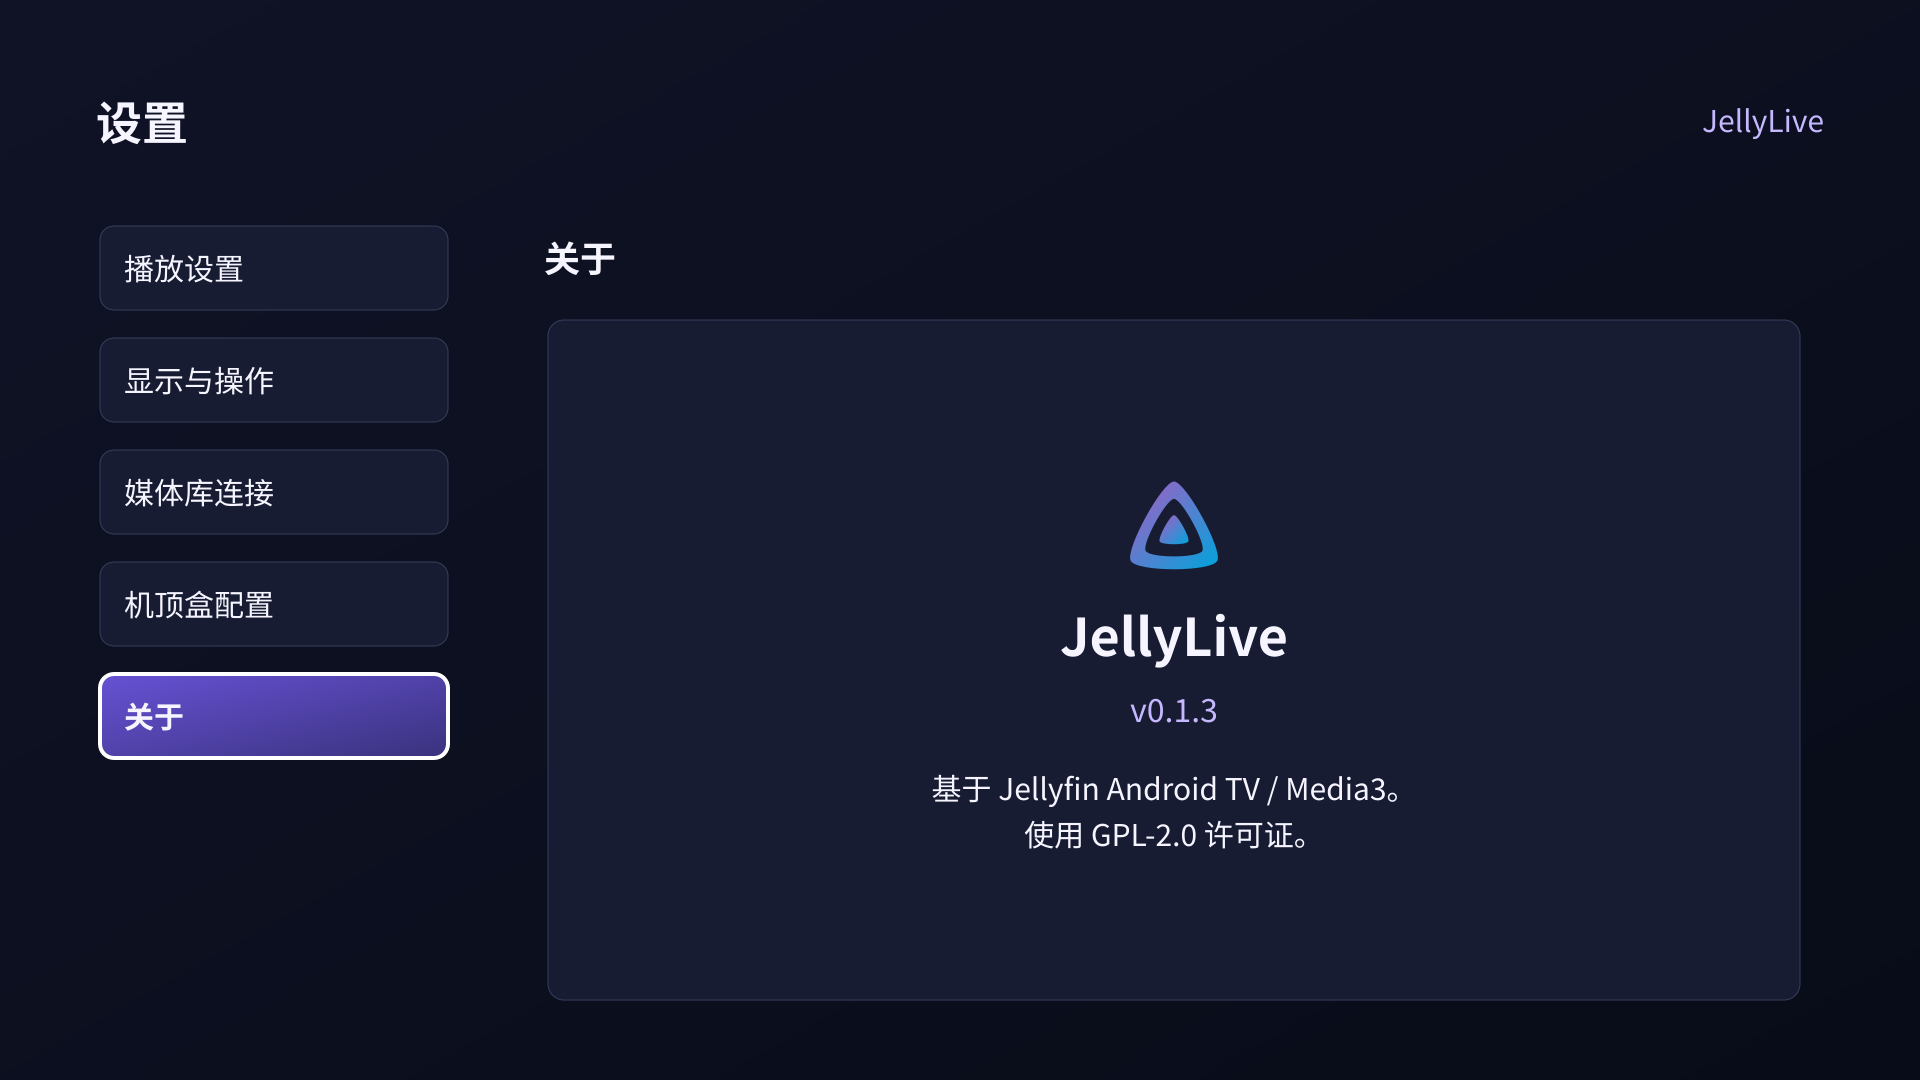
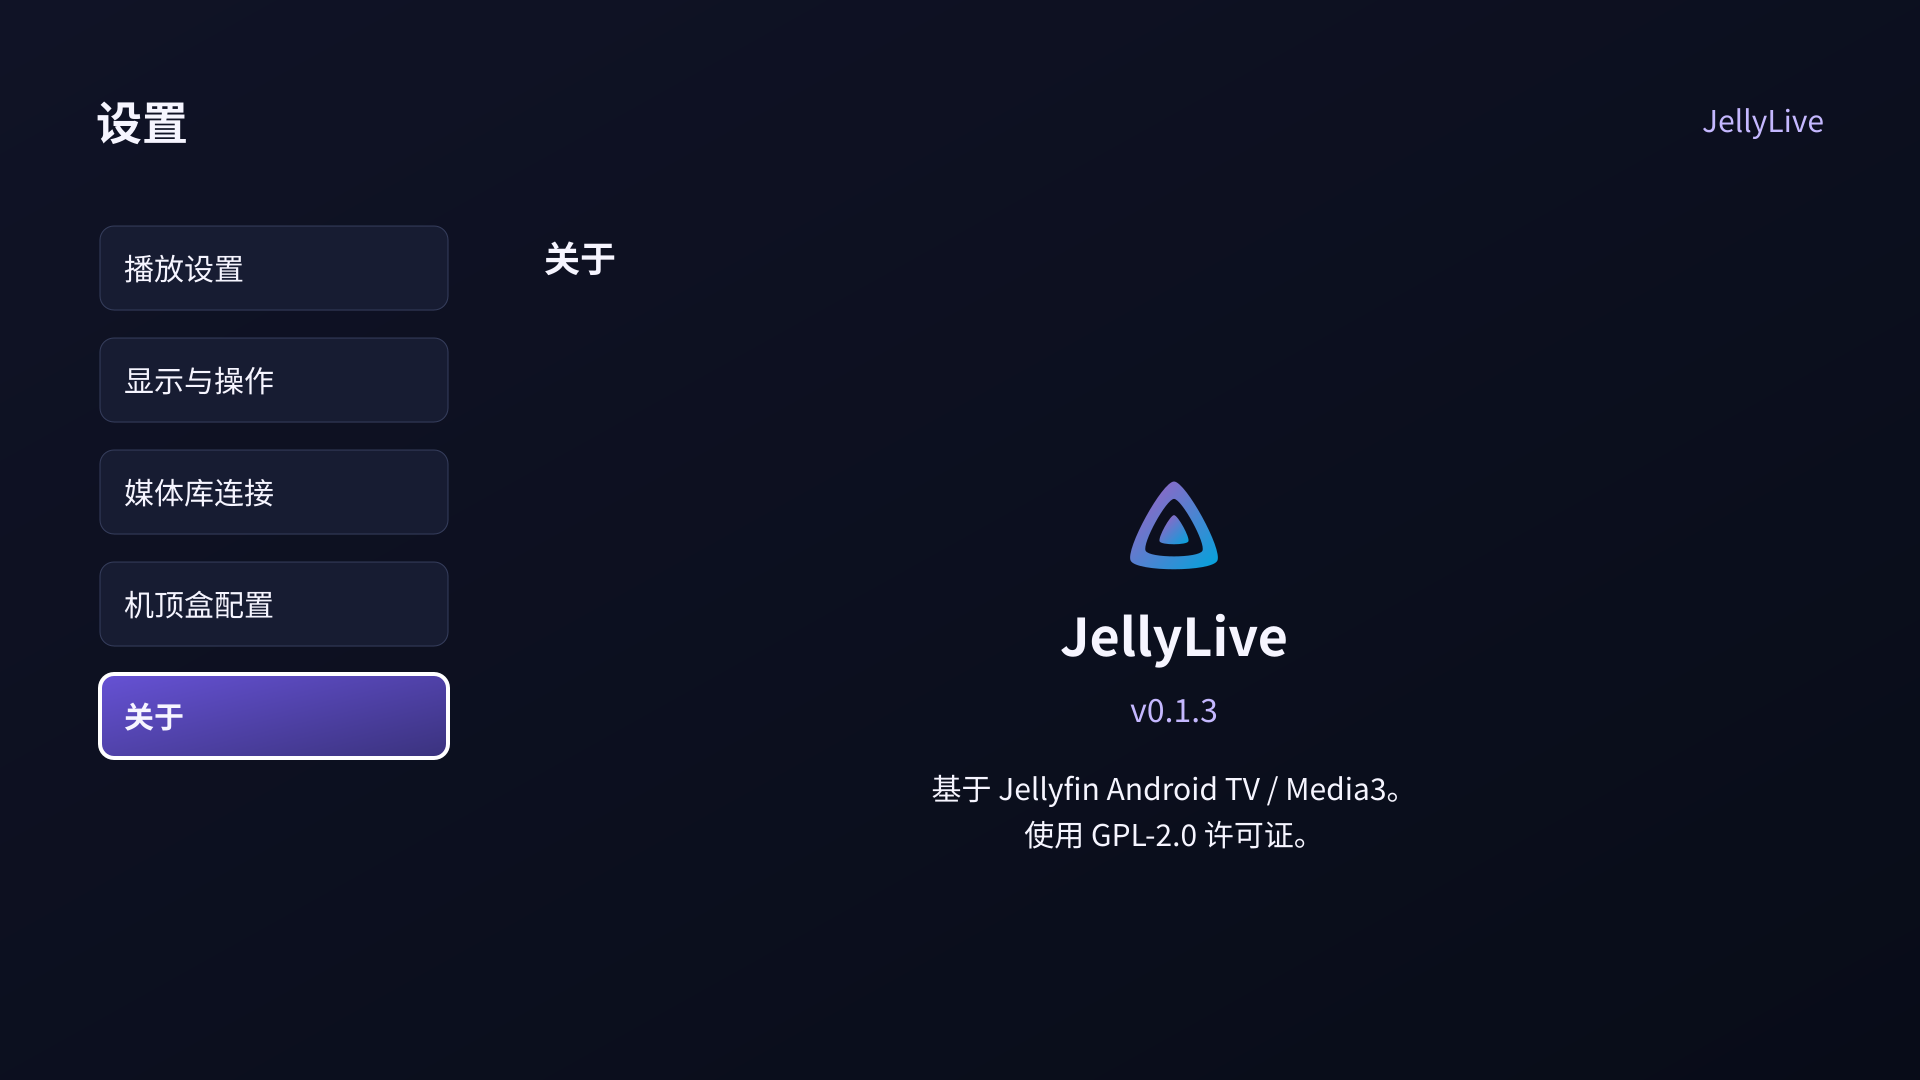
fix: correct settings back navigation and add library entry

Changed region(s): [[0.8438, 0.8556, 0.9375, 0.9472]]

diff --git a/app/src/main/java/org/jellyfin/androidtv/bestv/JellyLibraryActivity.kt b/app/src/main/java/org/jellyfin/androidtv/bestv/JellyLibraryActivity.kt
@@ -148,6 +148,10 @@ class JellyLibraryActivity : FragmentActivity() {
         window.decorView.systemUiVisibility = View.SYSTEM_UI_FLAG_FULLSCREEN or View.SYSTEM_UI_FLAG_HIDE_NAVIGATION or View.SYSTEM_UI_FLAG_IMMERSIVE_STICKY
         ui = TvUi(this)
         onBackPressedDispatcher.addCallback(this, object : OnBackPressedCallback(true) { override fun handleOnBackPressed() { back() } })
+        if (intent.getBooleanExtra("add_library", false)) {
+            connection(false)
+            return
+        }
         fresh("loading", false)
         header("我的媒体库", "正在恢复连接…")
         restoreInitialConnection()

diff --git a/scripts/device/TvRegressionProbe.java b/scripts/device/TvRegressionProbe.java
@@ -321,6 +321,50 @@ public final class TvRegressionProbe extends Instrumentation {
             }
         }
     }
+    private void tap(View view)throws Exception{
+        int[] bounds=main(()->{int[] xy=new int[2];view.getLocationOnScreen(xy);return new int[]{xy[0],xy[1],view.getWidth(),view.getHeight()};});
+        long now=SystemClock.uptimeMillis();float x=bounds[0]+bounds[2]/2f,y=bounds[1]+bounds[3]/2f;
+        sendPointerSync(MotionEvent.obtain(now,now,MotionEvent.ACTION_DOWN,x,y,0));sendPointerSync(MotionEvent.obtain(now,now+100,MotionEvent.ACTION_UP,x,y,0));waitForIdleSync();
+    }
+    private void settingsBackReview()throws Exception{
+        live=startActivitySync(new Intent().setClassName(getTargetContext().getPackageName(),"org.jellyfin.androidtv.bestv.LiveActivity").addFlags(Intent.FLAG_ACTIVITY_NEW_TASK));
+        check("home loads",waitTag(live,"group",25));
+        for(int category:new int[]{0,1,4}){
+            main(()->{call(live,"navigate","settings");return null;});tap(tagged(live,"settings-"+category));
+            check("touch category enters content "+category,inSettings()&&main(()->root(live).isInTouchMode()));
+            if(category==1){tap(tagged(live,"font"));check("touch opens font submenu",main(()->"large_text".equals(field(live,"settingsSubmenu"))));key(KeyEvent.KEYCODE_BACK);check("touch Back restores original font row",tagOfFocus(live).equals("font"));}
+            key(KeyEvent.KEYCODE_BACK);check("system Back after touch reaches category "+category,tagOfFocus(live).equals("settings-"+category));
+            if(category==4)shot("about-no-panel-fill");
+            key(KeyEvent.KEYCODE_BACK);check("second system Back after touch leaves settings "+category,main(()->"home".equals(field(live,"route"))));
+            if(main(()->"settings".equals(field(live,"route"))))main(()->{call(live,"home");return null;});
+        }
+        main(()->{call(live,"navigate","settings");return null;});focusTag(live,"settings-1");key(KeyEvent.KEYCODE_DPAD_RIGHT);key(KeyEvent.KEYCODE_BACK);
+        check("remote Back still reaches category",tagOfFocus(live).equals("settings-1"));key(KeyEvent.KEYCODE_BACK);check("remote Back still leaves settings",main(()->"home".equals(field(live,"route"))));
+        final String[] firstPage={"missing"};
+        Application.ActivityLifecycleCallbacks observer=new Application.ActivityLifecycleCallbacks(){
+            public void onActivityPostCreated(Activity a,Bundle state){if(a.getClass().getName().endsWith(".JellyLibraryActivity"))firstPage[0]=(String)field(a,"pageName");}
+            public void onActivityCreated(Activity a,Bundle state){} public void onActivityStarted(Activity a){} public void onActivityResumed(Activity a){}
+            public void onActivityPaused(Activity a){} public void onActivityStopped(Activity a){} public void onActivitySaveInstanceState(Activity a,Bundle state){} public void onActivityDestroyed(Activity a){}
+        };
+        main(()->{call(live,"navigate","settings");return null;});focusTag(live,"settings-2");key(KeyEvent.KEYCODE_DPAD_RIGHT);
+        Object service=field(live,"libraryConnections");Object original=main(()->call(service,"currentKey"));focusTag(live,"media-add");
+        ActivityMonitor monitor=addMonitor("org.jellyfin.androidtv.bestv.JellyLibraryActivity",null,false);
+        main(()->{live.getApplication().registerActivityLifecycleCallbacks(observer);return null;});
+        try{key(KeyEvent.KEYCODE_DPAD_CENTER);library=waitForMonitorWithTimeout(monitor,5000);}finally{removeMonitor(monitor);main(()->{live.getApplication().unregisterActivityLifecycleCallbacks(observer);return null;});}
+        check("add opens form immediately without restoration screen","connection".equals(firstPage[0]));
+        check("add form is usable",library!=null&&waitPage("connection",25));
+        if(library!=null){List<EditText> fields=main(()->inputs(root(library)));check("all new library fields are empty",fields.size()==3&&main(()->fields.stream().allMatch(f->f.length()==0)));shot("add-library-direct-form");
+            java.util.concurrent.atomic.AtomicInteger backEvents=new java.util.concurrent.atomic.AtomicInteger();
+            Window.Callback originalCallback=main(()->library.getWindow().getCallback());
+            main(()->{library.getWindow().setCallback((Window.Callback)Proxy.newProxyInstance(getTargetContext().getClassLoader(),new Class<?>[]{Window.Callback.class},(proxy,method,args)->{if(method.getName().equals("dispatchKeyEvent")&&((KeyEvent)args[0]).getKeyCode()==KeyEvent.KEYCODE_BACK)backEvents.incrementAndGet();try{return method.invoke(originalCallback,args);}catch(InvocationTargetException e){throw e.getCause();}}));return null;});
+            key(KeyEvent.KEYCODE_BACK);
+            // Android may use the first Back to dismiss transient system navigation bars.
+            layers.put(new JSONObject().put("firstBackWindowEvents",backEvents.get()));
+            if(backEvents.get()==0)key(KeyEvent.KEYCODE_BACK);
+            for(int i=0;i<30&&!(tagOfFocus(live).equals("media-add")&&main(()->live.hasWindowFocus()));i++)SystemClock.sleep(100);
+            check("add Back reaches app and closes form",backEvents.get()>0&&main(()->library.isFinishing()||library.isDestroyed()));
+            library=null;check("cancel add keeps current library",main(()->Objects.equals(original,call(service,"currentKey"))));layers.put(new JSONObject().put("cancelAddFocus",tagOfFocus(live)).put("liveWindowFocus",main(()->live.hasWindowFocus())));check("cancel add returns to add row",tagOfFocus(live).equals("media-add")&&main(()->live.hasWindowFocus()));}
+    }
     private void opacityFocusReview()throws Exception{
         live=startActivitySync(new Intent().setClassName(getTargetContext().getPackageName(),"org.jellyfin.androidtv.bestv.LiveActivity").addFlags(Intent.FLAG_ACTIVITY_NEW_TASK));check("home",waitTag(live,"group",25));main(()->{call(live,"navigate","settings");return null;});focusTag(live,"settings-1");key(KeyEvent.KEYCODE_DPAD_RIGHT);focusTag(live,"transparency");key(KeyEvent.KEYCODE_DPAD_CENTER);
         SeekBar bar=main(()->(SeekBar)root(live).findViewWithTag("selected-option"));int[] xy=main(()->{int[] a=new int[2];bar.getLocationOnScreen(a);return a;});int w=main(()->bar.getWidth()),h=main(()->bar.getHeight());long now=SystemClock.uptimeMillis();sendPointerSync(MotionEvent.obtain(now,now,MotionEvent.ACTION_DOWN,xy[0]+w*.5f,xy[1]+h/2f,0));sendPointerSync(MotionEvent.obtain(now,now+100,MotionEvent.ACTION_UP,xy[0]+w*.5f,xy[1]+h/2f,0));waitForIdleSync();
@@ -424,7 +468,7 @@ public final class TvRegressionProbe extends Instrumentation {
         String phase=arguments.getString("phase","run").replaceAll("[^a-zA-Z0-9_-]","");output=new File(getTargetContext().getExternalFilesDir("tv-regression"),phase);output.mkdirs();
         String error="";
         try{
-            if("true".equals(arguments.getString("refreshStyleReview"))){refreshStyleReview();}else if("true".equals(arguments.getString("opacityFocusReview"))){opacityFocusReview();}else if("true".equals(arguments.getString("configuredReview"))){configuredReview();}else if("true".equals(arguments.getString("connectionReview"))){connectionReview();}else if("true".equals(arguments.getString("liveReview"))){liveReview();}else if("true".equals(arguments.getString("searchReview"))){searchReview();}else if("true".equals(arguments.getString("channelAudit"))){channelAudit();}else if("true".equals(arguments.getString("settingsReview"))){settingsReview();}else if("true".equals(arguments.getString("mediaReview"))){mediaReview();}else if("true".equals(arguments.getString("playbackAudit"))){playbackAudit();}else if("true".equals(arguments.getString("resumeAudit"))||"true".equals(arguments.getString("resumeVerify"))){resumeAudit();if("true".equals(arguments.getString("resumeVerify")))resumePlayback();}else {
+            if("true".equals(arguments.getString("settingsBackReview"))){settingsBackReview();}else if("true".equals(arguments.getString("refreshStyleReview"))){refreshStyleReview();}else if("true".equals(arguments.getString("opacityFocusReview"))){opacityFocusReview();}else if("true".equals(arguments.getString("configuredReview"))){configuredReview();}else if("true".equals(arguments.getString("connectionReview"))){connectionReview();}else if("true".equals(arguments.getString("liveReview"))){liveReview();}else if("true".equals(arguments.getString("searchReview"))){searchReview();}else if("true".equals(arguments.getString("channelAudit"))){channelAudit();}else if("true".equals(arguments.getString("settingsReview"))){settingsReview();}else if("true".equals(arguments.getString("mediaReview"))){mediaReview();}else if("true".equals(arguments.getString("playbackAudit"))){playbackAudit();}else if("true".equals(arguments.getString("resumeAudit"))||"true".equals(arguments.getString("resumeVerify"))){resumeAudit();if("true".equals(arguments.getString("resumeVerify")))resumePlayback();}else {
             if(!"true".equals(arguments.getString("mediaOnly"))){live=startActivitySync(new Intent().setClassName(getTargetContext().getPackageName(),"org.jellyfin.androidtv.bestv.LiveActivity").addFlags(Intent.FLAG_ACTIVITY_NEW_TASK));
             check("live home starts",waitTag(live,"group",25));SystemClock.sleep(1000);groupAndSettings();livePlayer();}media();snapshotFallback();returnToLive();}
         }catch(Throwable e){failures++;error=e.toString();try{shot("fatal-state");}catch(Exception ignored){}}

diff --git a/app/src/main/java/org/jellyfin/androidtv/bestv/LiveActivity.java b/app/src/main/java/org/jellyfin/androidtv/bestv/LiveActivity.java
@@ -833,7 +833,9 @@ public final class LiveActivity extends Activity {
             TextView appName=ui.text("JellyLive",26,TvUi.INK);appName.setGravity(Gravity.CENTER);appName.setTypeface(null,android.graphics.Typeface.BOLD);rows.addView(appName,new LinearLayout.LayoutParams(-1,ui.px(42*ui.fontScale)));
             TextView version=ui.text(org.jellyfin.androidtv.BuildConfig.VERSION_NAME,16,0xffc5b8ff);version.setGravity(Gravity.CENTER);LinearLayout.LayoutParams versionParams=new LinearLayout.LayoutParams(-1,ui.px(30*ui.fontScale));versionParams.bottomMargin=ui.px(18);rows.addView(version,versionParams);
             TextView license=ui.text("基于 Jellyfin Android TV / Media3。\n使用 GPL-2.0 许可证。",15,TvUi.INK);license.setGravity(Gravity.CENTER);LinearLayout.LayoutParams licenseParams=new LinearLayout.LayoutParams(ui.px(512),-2);licenseParams.bottomMargin=ui.px(16);rows.addView(license,licenseParams);
-            sc.setFocusable(true);sc.setBackground(ui.focusBackground(TvUi.PANEL));sc.setId(View.generateViewId());settingsActions.add(sc);sc.setOnKeyListener((v,key,e)->{if(e.getAction()==KeyEvent.ACTION_DOWN&&(key==KeyEvent.KEYCODE_DPAD_UP||key==KeyEvent.KEYCODE_DPAD_DOWN)){sc.smoothScrollBy(0,ui.px(key==KeyEvent.KEYCODE_DPAD_UP?-70:70));return true;}return false;});
+            android.graphics.drawable.GradientDrawable outline=new android.graphics.drawable.GradientDrawable();outline.setColor(Color.TRANSPARENT);outline.setCornerRadius(ui.px(8));outline.setStroke(ui.px(2),TvUi.INK);
+            android.graphics.drawable.StateListDrawable aboutFocus=new android.graphics.drawable.StateListDrawable();aboutFocus.addState(new int[]{android.R.attr.state_focused},outline);aboutFocus.addState(new int[]{},new android.graphics.drawable.ColorDrawable(Color.TRANSPARENT));
+            sc.setFocusable(true);sc.setDefaultFocusHighlightEnabled(false);sc.setBackground(aboutFocus);sc.setId(View.generateViewId());settingsActions.add(sc);sc.setOnKeyListener((v,key,e)->{if(e.getAction()==KeyEvent.ACTION_DOWN&&(key==KeyEvent.KEYCODE_DPAD_UP||key==KeyEvent.KEYCODE_DPAD_DOWN)){sc.smoothScrollBy(0,ui.px(key==KeyEvent.KEYCODE_DPAD_UP?-70:70));return true;}return false;});
         }
         int tab=settingsTabs.get(settingsCategoryIndex()).getId();
         for(int i=0;i<settingsActions.size();i++){View action=settingsActions.get(i);action.setNextFocusUpId(settingsActions.get(Math.max(0,i-1)).getId());action.setNextFocusDownId(settingsActions.get(Math.min(settingsActions.size()-1,i+1)).getId());action.setNextFocusLeftId(tab);action.setNextFocusRightId(action.getId());action.setOnFocusChangeListener((v,focused)->{if(focused){if(!rebuildingSettingsPanel&&settingsSubmenu.isEmpty()&&v.getTag() instanceof String)settingsFocus.put(settingsCategory,(String)v.getTag());v.post(()->v.requestRectangleOnScreen(new android.graphics.Rect(0,0,v.getWidth(),v.getHeight()),false));}});}
@@ -856,7 +858,7 @@ public final class LiveActivity extends Activity {
         bar.setProgress(Math.max(0,Math.min(80,prefs.getInt("drawer_transparency",35)))/5);bar.setOnSeekBarChangeListener(new SeekBar.OnSeekBarChangeListener(){public void onProgressChanged(SeekBar b,int n,boolean user){update.run();}public void onStartTrackingTouch(SeekBar b){}public void onStopTrackingTouch(SeekBar b){}});update.run();
         bar.setOnKeyListener((v,key,e)->{if(confirm(key)){if(e.getAction()==KeyEvent.ACTION_UP){settingsSubmenu="";renderSettingsPanel(true);}return true;}if(e.getAction()==KeyEvent.ACTION_DOWN&&(key==KeyEvent.KEYCODE_DPAD_LEFT||key==KeyEvent.KEYCODE_DPAD_RIGHT)){bar.setProgress(Math.max(0,Math.min(16,bar.getProgress()+(key==KeyEvent.KEYCODE_DPAD_RIGHT?1:-1))));return true;}return false;});
     }
-    private boolean settingsBack(){if(!route.equals("settings"))return false;if(!settingsSubmenu.isEmpty()){cancelLibraryRequest();settingsSubmenu="";renderSettingsPanel(true);return true;}if(settingsPanel!=null&&settingsPanel.hasFocus()){rememberSettingsFocus();cancelLibraryRequest();settingsTabs.get(settingsCategoryIndex()).requestFocus();return true;}return false;}
+    private boolean settingsBack(){if(!route.equals("settings"))return false;if(!settingsSubmenu.isEmpty()){cancelLibraryRequest();settingsSubmenu="";renderSettingsPanel(true);return true;}if(settingsPanel!=null&&settingsPanel.hasFocus()){rememberSettingsFocus();cancelLibraryRequest();View tab=settingsTabs.get(settingsCategoryIndex());tab.setFocusableInTouchMode(true);return tab.requestFocus();}return false;}
     private String languageLabel(String code){return code.equals("zh")?"中文":code.equals("en")?"英语":code.equals("off")?"关闭":"跟随媒体";}
     private void applyVideoAspect(){if(video==null)return;String aspect=prefs.getString("video_aspect",prefs.getBoolean("fill_video",false)?"zoom":"fit");video.setResizeMode(aspect.equals("zoom")?androidx.media3.ui.AspectRatioFrameLayout.RESIZE_MODE_ZOOM:aspect.equals("stretch")?androidx.media3.ui.AspectRatioFrameLayout.RESIZE_MODE_FILL:androidx.media3.ui.AspectRatioFrameLayout.RESIZE_MODE_FIT);}
     private void applyPlayerSettings(){

diff --git a/ui-design/scripts/settings_tv_designs.py b/ui-design/scripts/settings_tv_designs.py
@@ -177,7 +177,7 @@ def install(g):
             s+=tx(132,y+65,name,34,weight=600)+tx(1728,y+65,address,28,INK if i==0 else VALUE,anchor='end')
         return s
     def about():
-        s=frame(4,nav_focus=True)+rect(548,320,1252,680,'#171c32',16,'#363e5d',1)
+        s=frame(4,nav_focus=True)
         s+='<defs><linearGradient id="about-mark" x1="0" y1="0" x2="1" y2="1"><stop stop-color="#AA5CC3"/><stop offset="1" stop-color="#00A4DC"/></linearGradient></defs>'
         s+=f'<svg x="1110" y="462" width="128" height="128" viewBox="-16 -16 105 105"><g fill="url(#about-mark)" fill-rule="evenodd"><path d="{g["LOGO_OUTER"]}"/><path d="{g["LOGO_INNER"]}"/></g></svg>'
         s+=tx(1174,656,'JellyLive',52,weight=650,anchor='middle')+tx(1174,722,'v0.1.3',32,VALUE,anchor='middle')
